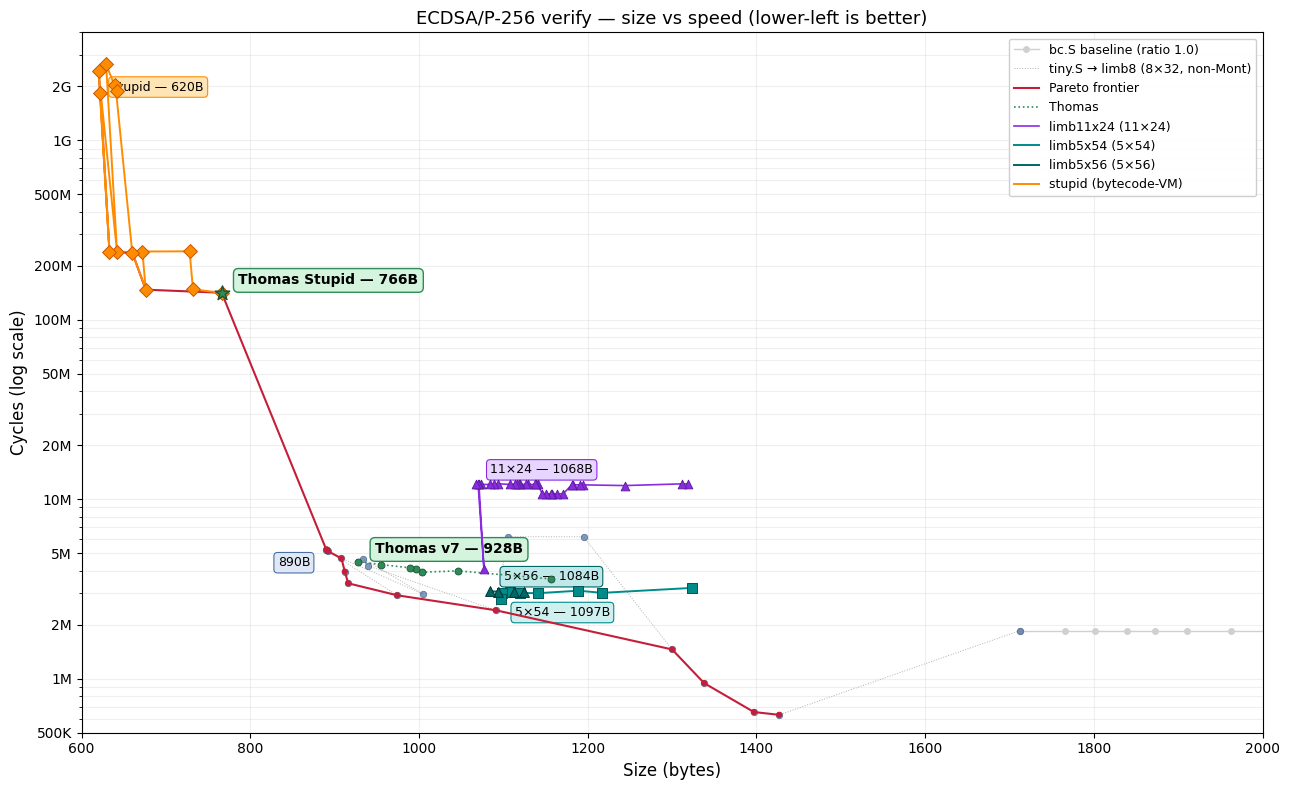
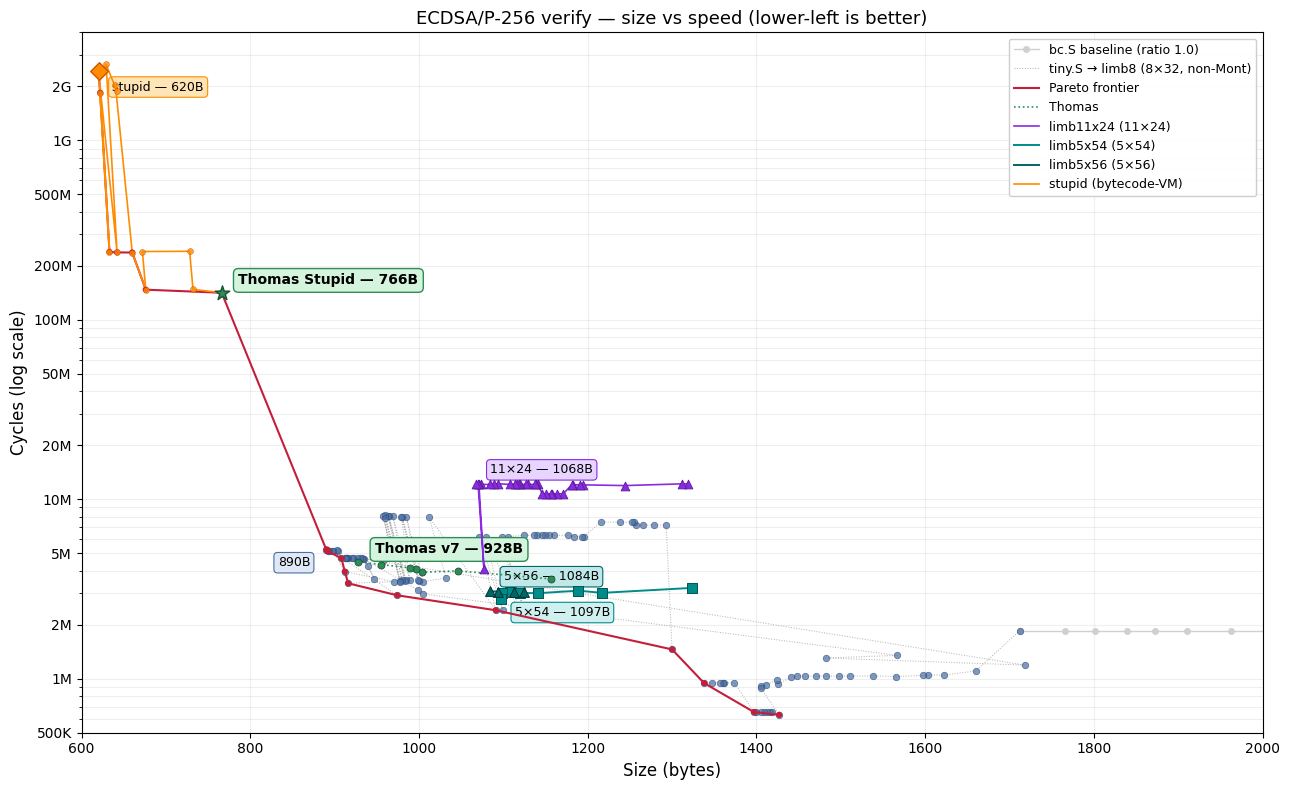
docs/plot_history.py: show full history; stupid dots+diamond endpoint
- Drop self-Pareto filter on TRAIL+limb8 — show entire 890B grind history
- Stupid track: small dots for trail, diamond only on size-floor endpoint
- Pareto frontier already extends over all tracks (ALL_XY unchanged)

diff --git a/docs/plot_history.py b/docs/plot_history.py
@@ -169,25 +169,11 @@ LIMB5X56_TRACK = read_unified('limb5x56')
 LIMB8_TRACK  = read_unified('limb8')
 STUPID_TRACK = read_unified('stupid')
 
-# Join TRAIL + limb8 (limb8 IS the tiny.S continuation). Filter to self-
-# Pareto: keep a point only if NO other point in the same sequence (past
-# or future) dominates it. Drops the #ifdef back-and-forth and the
-# superseded limb8 intermediates, keeps only enduring milestones.
-# Chronological order preserved.
+# Join TRAIL + limb8 (limb8 IS the tiny.S continuation). Show ALL points
+# including superseded intermediates — the full grind history.
 FULL_CHRON = [(b, c, lbl) for b, c, lbl in TRAIL] + \
              [(b, c, None) for b, c in LIMB8_TRACK]
-
-def self_pareto_ordered(seq):
-    pts = [(b, c) for b, c, _ in seq]
-    shown = []
-    for i, (b, c, lbl) in enumerate(seq):
-        # Labeled points are architectural milestones — always shown.
-        if lbl or not any(b2 <= b and c2 <= c and (b2 < b or c2 < c)
-                          for j, (b2, c2) in enumerate(pts) if j != i):
-            shown.append((b, c, lbl))
-    return shown
-
-TRAIL_SHOWN = self_pareto_ordered(FULL_CHRON)
+TRAIL_SHOWN = FULL_CHRON
 
 def pareto(pts):
     front = []
@@ -296,16 +282,18 @@ if LIMB5X56_TRACK:
                 bbox=dict(boxstyle='round,pad=0.3', fc='#c0e8e8',
                 ec='#006666', lw=0.8))
 
-# stupid (bytecode-VM, MUL-as-bytecode) — orange. Our iterations on top
-# of Thomas's baseline.
+# stupid (bytecode-VM, MUL-as-bytecode) — orange. Small dots for the trail,
+# diamond only on the size-floor endpoint.
 if STUPID_TRACK:
     sx = [p[0] for p in STUPID_TRACK]
     sy = [p[1] for p in STUPID_TRACK]
-    ax.plot(sx, sy, '-', color='#ff8c00', linewidth=1.4, zorder=4,
+    ax.plot(sx, sy, '-', color='#ff8c00', linewidth=1.2, zorder=4,
             label='stupid (bytecode-VM)')
-    ax.scatter(sx, sy, c='#ff8c00', s=50, marker='D',
-               edgecolors='#cc5500', linewidths=0.7, zorder=5)
+    ax.scatter(sx, sy, c='#ff8c00', s=18, marker='o',
+               edgecolors='#cc5500', linewidths=0.4, zorder=5, alpha=0.8)
     tip = min(STUPID_TRACK, key=lambda p: p[0])
+    ax.scatter([tip[0]], [tip[1]], c='#ff8c00', s=80, marker='D',
+               edgecolors='#cc5500', linewidths=1.0, zorder=6)
     ax.annotate(f'stupid — {tip[0]}B', tip,
                 textcoords="offset points", xytext=(10, -14), fontsize=9,
                 bbox=dict(boxstyle='round,pad=0.3', fc='#ffe4b5',
